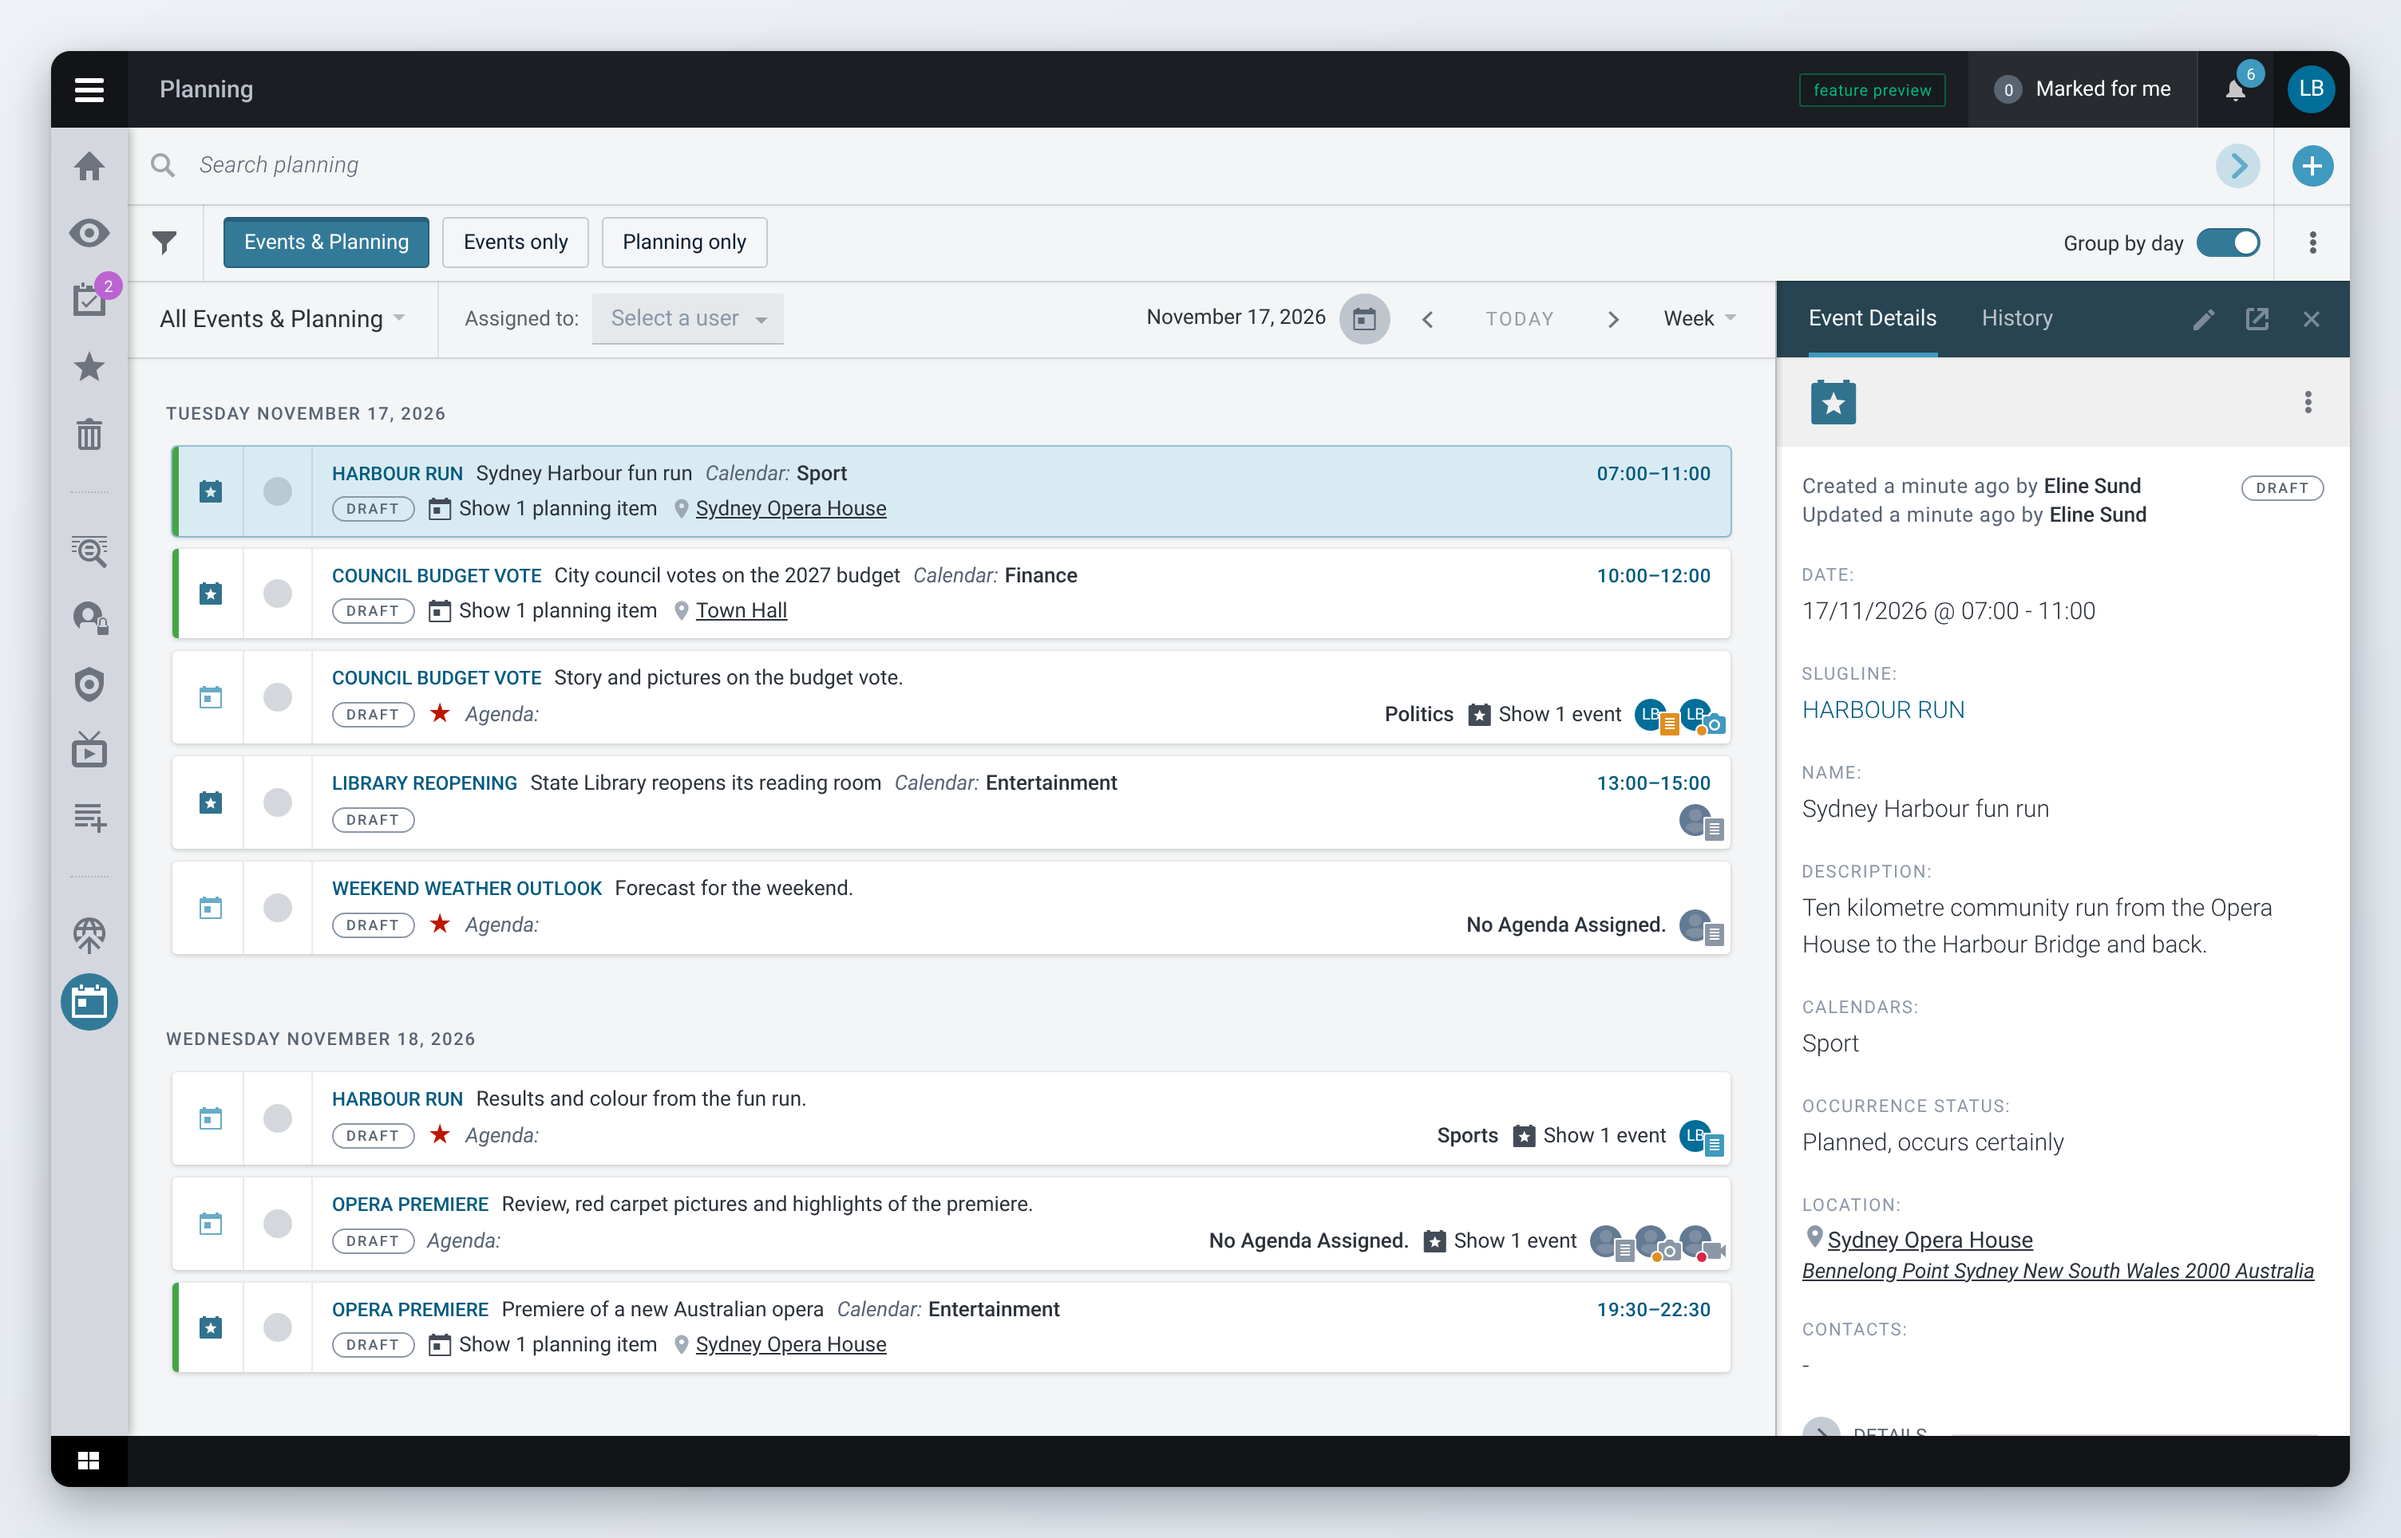
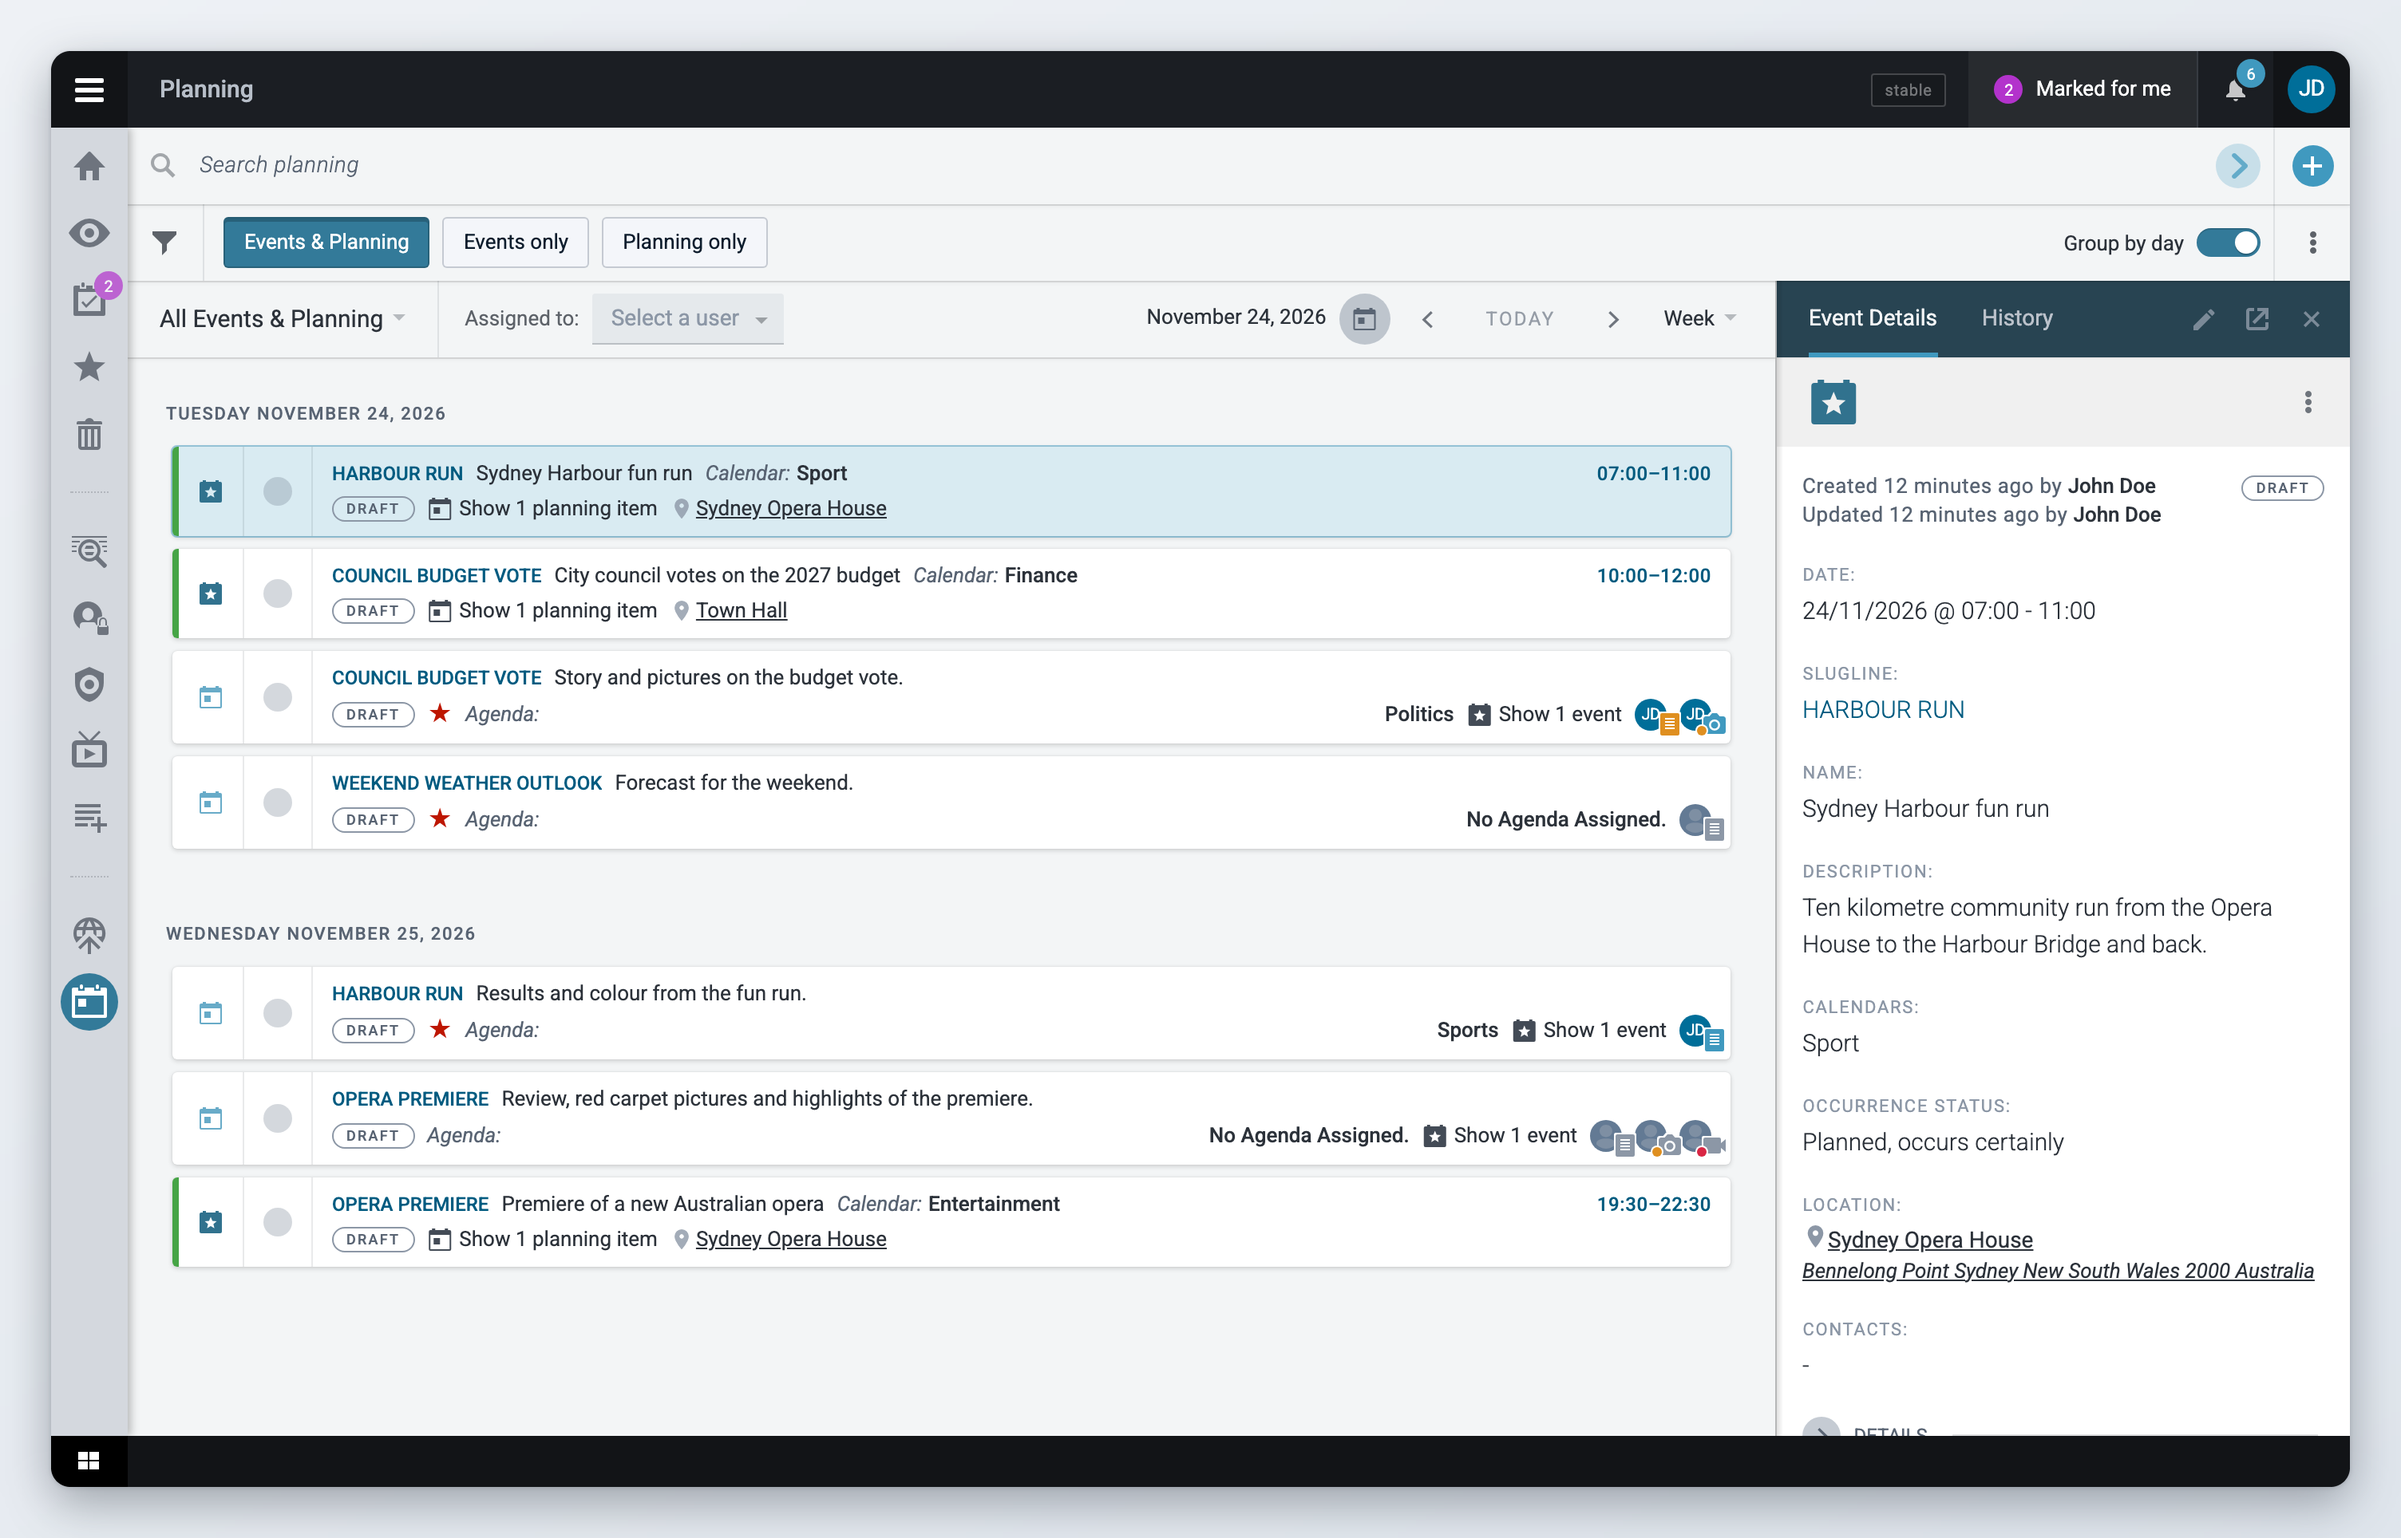
Show event coverages apart from planning items in the Planning figures

diff --git a/tools/screenshots/seed_planning.py b/tools/screenshots/seed_planning.py
@@ -161,15 +161,28 @@ EVENTS = [
         "start": (1, "19:30"), "end": (1, "22:30"), "calendar": "entertainment",
         "location": "doc-location-opera-house",
     },
-    # An event with a coverage of its own (no planning item), for the event coverage shots. `coverages` uses
-    # the same shape as the PLANNING coverage specs below; only the "draft" state is supported here.
+    # Events with coverages of their own (no planning item), for the event coverage shots. They sit next
+    # week so that this week's list shows only events covered through planning items: a newsroom uses one
+    # way or the other, and the overview should not mix them. `coverages` uses the same shape as the
+    # PLANNING coverage specs below; only the "draft" state is supported here.
     {
         "guid": "doc-event-library", "slugline": "Library reopening", "name": "State Library reopens its reading room",
         "definition_short": "The renovated reading room opens to the public with a tour for the press.",
-        "start": (0, "13:00"), "end": (0, "15:00"), "calendar": "entertainment",
+        "start": (7, "13:00"), "end": (7, "15:00"), "calendar": "entertainment",
         "coverages": [
             {"id": "doc-cov-library-text", "type": "text", "slugline": "Library reopening",
-             "due": (0, "16:00"), "status": "planned", "assign": ("Culture", None, "draft")},
+             "due": (7, "16:00"), "status": "planned", "assign": ("Culture", None, "draft")},
+        ],
+    },
+    {
+        "guid": "doc-event-gallery", "slugline": "Gallery late night", "name": "Late night opening at the Art Gallery",
+        "definition_short": "The gallery stays open until midnight with talks, music and the new wing.",
+        "start": (8, "18:00"), "end": (8, "23:30"), "calendar": "entertainment",
+        "coverages": [
+            {"id": "doc-cov-gallery-picture", "type": "picture", "slugline": "Gallery late night",
+             "due": (8, "20:00"), "status": "planned", "assign": ("Culture", None, "draft")},
+            {"id": "doc-cov-gallery-text", "type": "text", "slugline": "Gallery late night",
+             "due": (8, "21:30"), "status": "planned", "assign": ("Culture", None, "draft")},
         ],
     },
 ]

diff --git a/superdesk-user-guide/superdesk-planning-component/events.md b/superdesk-user-guide/superdesk-planning-component/events.md
@@ -134,7 +134,7 @@ In the event form, the **Coverages** section comes after **Links** and before **
 
 <figure><img src="../../.gitbook/assets/superdesk-planning-component/event-coverages.png" alt="An event in the editor with a text coverage for the Culture desk in its Coverages section" width="434"><figcaption><p>Coverages of the event itself</p></figcaption></figure>
 
-If your administrator turned on **Inline Add Coverages form**, the **Coverages** section shows a **Coverage Types** box instead of the plus button. Tick each type you need and pick its **Desk**, user, **Language** and **Status**. Then click **Add Coverage(s)**. The plus icon on a type adds a second coverage of that type. **Cancel** clears the box and folds it into an **Add Coverages** button; click that button to open the box again. When you pick a desk, the status changes to **Planned**, unless your Superdesk is set up to leave the status to you. A desk is required when you pick a user, or when your Superdesk adds coverages to the workflow automatically.
+If your administrator turned on **Inline Add Coverages form**, the **Coverages** section shows a **Coverage Types** box instead of the plus button. Tick each type you need and pick its configured fields, like **Desk**, user, **Language** and **Status**. Then click **Add Coverage(s)**. The plus icon on a type adds a second coverage of that type. **Cancel** clears the box and folds it into an **Add Coverages** button; click that button to open the box again. When you pick a desk, the status changes to **Planned**, unless your Superdesk is set up to leave the status to you. A desk is required when you pick a user, or when your Superdesk adds coverages to the workflow automatically.
 
 <figure><img src="../../.gitbook/assets/superdesk-planning-component/event-inline-coverage-form.png" alt="The Coverage Types box in the event form with Text ticked and the Culture desk picked" width="434"><figcaption><p>The inline form for adding coverages</p></figcaption></figure>
 
@@ -142,7 +142,9 @@ Once the event is saved, you see its coverages in other places too:
 
 * The event preview shows each coverage as a card, like the preview of a planning item.
 * In the list, the event row shows one icon per coverage that is due on that day. If a coverage is due on a day outside the event's dates, the event is also listed on that day.
-* **Edit Coverages** in the event's action menu changes the coverages without opening the editor. See [Editing coverages from the list](planning-items-and-coverages.md#editing-coverages-from-the-list).
+* **Edit Coverages** in the event's action menu changes the coverages without opening the editor (it opens the advanced mode window instead). See [Editing coverages from the list](planning-items-and-coverages.md#editing-coverages-from-the-list).
+
+<figure><img src="../../.gitbook/assets/superdesk-planning-component/event-list-coverages.png" alt="The Events only view with two events, each row showing the icons of its own coverages" width="999"><figcaption><p>Events with their own coverages in the Events only view</p></figcaption></figure>
 
 ## Changing an event
 

diff --git a/tools/screenshots/SEED.md b/tools/screenshots/SEED.md
@@ -113,7 +113,7 @@ python3 seed_planning.py --reset                                       # back to
 ```
 
 - **Users and desks**: the profile's users get fictional names (logins unchanged, password `admin`); "Sports Desk" and "Politic Desk" become Sports and Politics, Business, World and Culture are created, "XEditor3 Desk" is deleted. The content profile and template are renamed Story; the Sports desk gets a "Weekly advisory" article template.
-- **Planning data**: three events (two today, one tomorrow), four planning items for today and tomorrow (with text, picture and video coverages), five more dated yesterday so every desk has assignments in the states assigned, in progress and completed without adding rows to today's list. Work is started and completed through `assignments/content` and `assignments/complete`, logged in as the assignee.
+- **Planning data**: three events (two today, one tomorrow) covered through planning items, two events next week with coverages of their own (Library reopening, Gallery late night), four planning items for today and tomorrow (with text, picture and video coverages), five more dated yesterday so every desk has assignments in the states assigned, in progress and completed without adding rows to today's list. Work is started and completed through `assignments/content` and `assignments/complete`, logged in as the assignee.
 - **Vocabularies for the full client**: the broadcasting vocabularies (`rundown_item_types` and the others from `seed_broadcasting.py`) and `availability_manager_tags`, because the client on the docs instance does not start without the first and shows administrators a blocking modal without the second. The planning e2e stack does not load those extensions.
 - **Administration data**: agendas (one disabled), three event templates, the saved filter "Sport events this week", two custom layouts, three locations, the languages, countries and regions vocabularies, and today's featured stories list.
 - **Clean-up on every run**: item locks, the Featured Stories lock and editor autosaves left by earlier captures are released or deleted (`run-capture-planning.sh` runs the seed without `--reset` before capturing; set `NO_SEED=1` to skip that).

diff --git a/superdesk-user-guide/superdesk-planning-component/planning-administration.md b/superdesk-user-guide/superdesk-planning-component/planning-administration.md
@@ -148,7 +148,7 @@ Click a field to open its details on the right. Change the options, then click *
 
 Some fields are required by the system and always stay required: **Dates** for events, **Planning Date** and **Coverages** for planning items, and **Content Type** and **Scheduled** for coverages. Their details show "This field is required by the system".
 
-The event **Coverages** field is not required by the system. If you remove it from the event profile, the coverage filters, **Assigned to** and **Add to workflow** disappear from the **Events only** view.
+The event **Coverages** field is not required by the system. If you remove it from the event profile, everything about event coverages goes with it: the **Assigned to** filter and **Add to workflow** in the **Events only** view, the **Edit Coverages** action on events, and the coverage options in the **Advanced filters** panel for events (**Without Coverage**, **With Coverages only**, **Coverage Type** and **Coverage Assignment Status**).
 
 <figure><img src="../../.gitbook/assets/planning-administration/event-profile-fields.png" alt="The Manage Event Profile window with a field's details open" width="637"><figcaption><p>Editing a field in the event profile</p></figcaption></figure>
 
